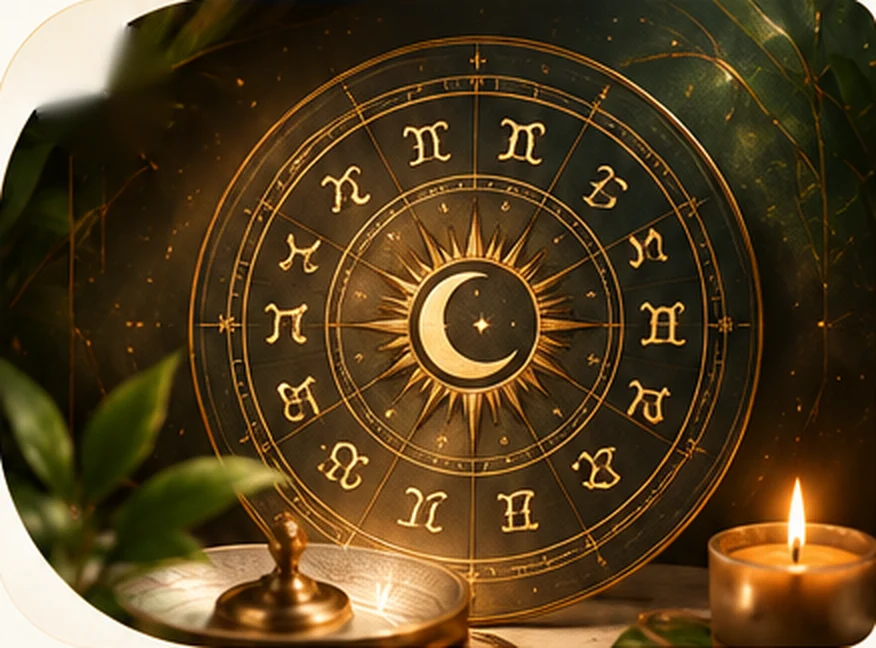
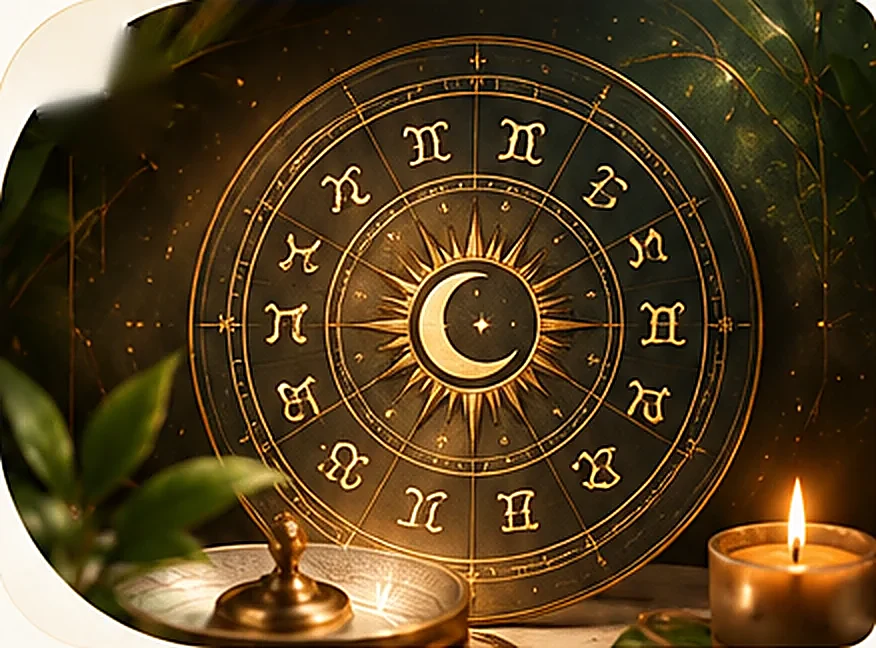
Site refine: sharpened upscaled photos, reading room and shop in green and gold, about client-stories leaf behind the text

diff --git a/src/app/globals.css b/src/app/globals.css
@@ -22734,3 +22734,338 @@ main h1, main h2, main h3, main p, main li { overflow-wrap: break-word; }
 .bt-card-b .bt-card-more { margin-top: 0; }
 .bt-card-b .bt-card-actions.bt-card-foot { gap: 12px; }
 @media (min-width: 901px) { .svd-review #pages h2 { font-size: clamp(30px, 2.8vw, 46px); } }
+
+/* ===== Resources (reading room) green theme, generated ===== */
+.rr .button-secondary { color: #1D4F3A; }
+.rr .button-light { color: #1D4F3A !important; }
+.rr .button-light:hover { color: #1D4F3A !important; }
+.rr .dock-form { color: #1D4F3A !important; }
+.rr .reel-frame { background: #0B2A1F; }
+.rr .hero-figures .stats strong { color: #1D4F3A; }
+.rr .portrait-badge span { color: #1D4F3A; }
+.rr .meet-copy .text-link, .rr .meet .text-link { color: #1D4F3A; }
+.rr .chakra-control-btn, .rr .orbit-control { color: #1D4F3A; }
+.rr .intro-video-play-btn { background: linear-gradient(135deg, #1D4F3A 0%, #0B2A1F 100%); }
+.rr .intro-video-play-btn:hover { background: linear-gradient(135deg, #1D4F3A 0%, #123A2B 100%); }
+.rr .intro-main-quote { color: #1D4F3A; }
+.rr .intro-bio-text em { color: #1D4F3A; }
+.rr .stats-card-header { color: #1D4F3A; }
+.rr .stats-number { color: #1D4F3A; }
+.rr .intro-cta-button { background: linear-gradient(135deg, #1D4F3A 0%, #0B2A1F 100%); }
+.rr .intro-cta-button:hover { background: linear-gradient(135deg, #1D4F3A 0%, #123A2B 100%); }
+.rr .meet-badge { color: #1D4F3A; }
+.rr .service-card h3 { color: #1D4F3A; }
+.rr .service-card:hover h3 { color: #0B2A1F; }
+.rr .program-panel h1, .rr .program-panel h2 { color: #1D4F3A; }
+.rr .program-duration span { color: #1D4F3A; }
+.rr .program-details li { color: #1D4F3A; }
+.rr .program-domains span { color: #1D4F3A; }
+.rr .program-domains span:hover { color: #1D4F3A !important; }
+.rr .faq-intro h2 { color: #1D4F3A; }
+.rr .faq-intro .text-link { color: #1D4F3A; }
+.rr .program-btn-learn, .rr a.program-btn-learn { color: #1D4F3A !important; }
+.rr .areas-figure .chakra-center-you { fill: #1D4F3A; }
+.rr .areas-figure .chakra-labels text { fill: #1D4F3A; }
+.rr .desktop-nav a { color: #1D4F3A; }
+.rr .menu-toggle .dot { background: #1D4F3A !important; }
+.rr .drawer-close-btn { color: #1D4F3A !important; }
+.rr .drawer-links a { color: #1D4F3A !important; }
+.rr .drawer-contact-links a:hover { color: #1D4F3A !important; }
+.rr .trust-stats-header h2 { color: #1D4F3A; }
+.rr .trust-stat-number { color: #1D4F3A; }
+.rr .one-call-header h2 { color: #1D4F3A; }
+.rr .one-call-card-title { color: #1D4F3A; }
+.rr .desktop-nav a:hover, .rr .desktop-nav a[aria-current="page"] { color: #1D4F3A !important; }
+.rr .blogs-main-title { color: #1D4F3A; }
+.rr .blog-card-media { background: #0B2A1F; }
+.rr .blog-author-name { color: #1D4F3A; }
+.rr .blog-post-title { color: #1D4F3A; }
+.rr .blog-read-more-btn:hover { color: #1D4F3A; }
+.rr .feature-pill strong { color: #1D4F3A; }
+.rr .feature-pill em { color: #1D4F3A; }
+.rr .quote-band blockquote p { color: #1D4F3A !important; }
+.rr .experience-main-title { color: #1D4F3A; }
+.rr .experience-card:hover .experience-icon-box svg { stroke: #1D4F3A !important; }
+.rr .experience-card:hover .experience-number-badge { color: #1D4F3A; }
+.rr .experience-card-title { color: #1D4F3A; }
+.rr .experience-stats-strip { background: linear-gradient(135deg, #1D4F3A 0%, #0B2A1F 100%); }
+.rr .program-main h1, .rr .program-main h2 { color: #1D4F3A; }
+.rr .program-duration strong { color: #1D4F3A; }
+.rr .program-details li { color: #1D4F3A; }
+.rr .program-domains span { color: #1D4F3A; }
+.rr .program-intro-header h2 { color: #1D4F3A; }
+.rr .pillar-card h3 { color: #1D4F3A; }
+.rr .stays-extended-desc>p { color: #1D4F3A; }
+.rr .stays-key-takeaways strong { color: #1D4F3A; }
+.rr .service-quote-text, .rr .contact-quote-text { color: #1D4F3A; }
+.rr .service-quote-author strong, .rr .contact-quote-author strong { color: #1D4F3A; }
+.rr .program-explore-btn { background: linear-gradient(135deg, #1D4F3A 0%, #0B2A1F 100%); }
+.rr .service-card-title { color: #1D4F3A; }
+.rr .service-card-quote blockquote p { color: #1D4F3A; }
+.rr .service-enquiry-btn { background: linear-gradient(135deg, #1D4F3A 0%, #0B2A1F 100%); }
+.rr .hero-proof strong { color: #1D4F3A; }
+.rr .about-hero-copy h1 { color: #1D4F3A; }
+.rr .program-person strong, .rr .hero-human-cue strong { color: #1D4F3A; }
+.rr .home-return-prompt { box-shadow: 0 16px 60px rgb(29 79 58 / .12); }
+.rr .hx { background:
+    radial-gradient(60% 34% at 50% 52%, rgb(215 184 107 / 0.20), transparent 70%),
+    radial-gradient(120% 60% at 50% 0%, #1D4F3A 0%, transparent 60%),
+    linear-gradient(180deg, #1D4F3A 0%, #123A2B 100%); }
+.rr .hx-arch { box-shadow: 0 0 0 6px rgb(18 58 43 / 0.9), 0 0 0 7px rgb(215 184 107 / 0.45), 0 40px 70px -30px rgb(0 0 0 / 0.7); }
+@media (min-width: 901px) {
+.rr .hx { background:
+      radial-gradient(38% 58% at 76% 50%, rgb(215 184 107 / 0.20), transparent 70%),
+      radial-gradient(70% 90% at 0% 0%, #1D4F3A 0%, transparent 60%),
+      linear-gradient(180deg, #1D4F3A 0%, #123A2B 100%); }
+}
+.rr .mn-arch { box-shadow: 0 0 0 8px var(--brand-pearl), 0 0 0 9px rgb(184 138 69 / 0.4), 0 44px 80px -36px rgb(29 79 58 / 0.55); }
+.rr .mn-arch video { background: #123A2B; }
+.rr .mn-sound { box-shadow: 0 0 0 1px rgb(184 138 69 / 0.5), 0 12px 24px -12px rgb(18 58 43 / 0.6); }
+.rr .mn-play { background: linear-gradient(180deg, transparent 55%, rgb(18 58 43 / 0.35)); }
+.rr .mn-play-disc { box-shadow: 0 0 0 8px rgb(250 246 240 / 0.35), 0 18px 34px -12px rgb(18 58 43 / 0.6); }
+.rr .mn-play:hover .mn-play-disc, .rr .mn-play:focus-visible .mn-play-disc { box-shadow: 0 0 0 12px rgb(250 246 240 / 0.4), 0 18px 34px -12px rgb(18 58 43 / 0.6); }
+.rr .mn-link { box-shadow: inset 0 0 0 1px rgb(29 79 58 / 0.22); }
+.rr .cw-head .clientele-note { color: color-mix(in srgb, #1D4F3A 72%, #FAF6F0); }
+.rr .cw-person small { color: color-mix(in srgb, #1D4F3A 65%, #FAF6F0); }
+.rr .cw-watch { box-shadow: inset 0 0 0 1px color-mix(in srgb, #1D4F3A 22%, transparent); }
+.rr .cw-watch-time { color: color-mix(in srgb, #1D4F3A 60%, #FAF6F0); }
+.rr .cw-dot::before { background: color-mix(in srgb, #1D4F3A 22%, transparent); }
+.rr .sa-lead { color: color-mix(in srgb, #1D4F3A 72%, #FAF6F0); }
+.rr .sa-card { box-shadow: 0 0 0 1px color-mix(in srgb, #B88A45 22%, transparent), 0 18px 36px -28px rgb(29 79 58 / 0.45); }
+.rr .sa-body p { color: color-mix(in srgb, #1D4F3A 72%, #FAF6F0); }
+.rr .sa-card:hover { box-shadow: 0 0 0 1px color-mix(in srgb, #B88A45 45%, transparent), 0 26px 44px -28px rgb(29 79 58 / 0.5); }
+.rr .cw-card { background: #1D4F3A; box-shadow: 0 0 0 1px color-mix(in srgb, #B88A45 40%, transparent), 0 34px 60px -32px rgb(29 79 58 / 0.6); }
+.rr .cw-card-shade { background: linear-gradient(180deg, rgb(29 79 58 / 0.15) 0%, rgb(29 79 58 / 0) 35%, rgb(29 79 58 / 0.88) 100%); }
+.rr .cw-card-time { background: rgb(29 79 58 / 0.55); }
+.rr .cw-card-play { color: #1D4F3A; }
+.rr .sa-topics a { color: #1D4F3A; }
+.rr .sa-topics a:hover { color: color-mix(in srgb, #B88A45 70%, #1D4F3A); }
+.rr .ab-quote { box-shadow: 0 0 0 1px color-mix(in srgb, #B88A45 30%, transparent), 0 18px 34px -20px rgb(29 79 58 / 0.45); }
+.rr .ab-quote p { color: #1D4F3A; }
+.rr .ab-quote strong { color: #1D4F3A; }
+.rr .ab-quote small { color: color-mix(in srgb, #1D4F3A 65%, #FAF6F0); }
+.rr .ab-kicker { color: #1D4F3A; }
+.rr .ab h2 { color: #1D4F3A; }
+.rr .ab-lead { color: color-mix(in srgb, #1D4F3A 72%, #FAF6F0); }
+.rr .ab-icon { color: #1D4F3A; }
+.rr .ab-num { background: #1D4F3A; }
+.rr .ab-steps h3 { color: #1D4F3A; }
+.rr .ab-steps p { color: color-mix(in srgb, #1D4F3A 70%, #FAF6F0); }
+.rr .ab-cta { color: #1D4F3A; }
+.rr .ab-more summary { color: #1D4F3A; }
+.rr .ab-more dt { color: #1D4F3A; }
+.rr .ab-more dd { color: color-mix(in srgb, #1D4F3A 72%, #FAF6F0); }
+.rr .sf { background:
+    radial-gradient(60% 60% at 80% 0%, color-mix(in srgb, #D7B86B 14%, transparent), transparent 70%),
+    linear-gradient(180deg, #1D4F3A 0%, #0B2A1F 100%); }
+.rr .sf-arrow:hover { color: #1D4F3A; }
+.rr .sf-film { background: #0B2A1F; }
+.rr .sf-shade { background: linear-gradient(180deg, rgb(11 42 31 / 0.25) 0%, rgb(11 42 31 / 0) 30%, rgb(11 42 31 / 0.1) 55%, rgb(11 42 31 / 0.92) 100%); }
+.rr .sf-time { background: rgb(11 42 31 / 0.55); }
+.rr .sf-play { color: #1D4F3A; }
+.rr .sf-more span { color: #1D4F3A; }
+.rr .sf-enquire { color: #1D4F3A; }
+.rr .sf-viewer { background: #0B2A1F; }
+.rr .sf-viewer-close { color: #1D4F3A; }
+.rr .sf-viewer { background: #0B2A1F; }
+.rr .bk-back { box-shadow: 0 30px 60px -20px rgb(29 79 58 / 0.45); }
+.rr .bk-page { color: #1D4F3A; }
+.rr .bk-shadow { background: radial-gradient(closest-side, rgb(29 79 58 / 0.32), transparent); }
+.rr .bk-kicker { color: #1D4F3A; }
+.rr .bk h2 { color: #1D4F3A; }
+.rr .bk-lead { color: color-mix(in srgb, #1D4F3A 75%, #FAF6F0); }
+.rr .bk-lead em { color: #1D4F3A; }
+.rr .bk-facts strong { color: #1D4F3A; }
+.rr .bk-facts span { color: color-mix(in srgb, #1D4F3A 65%, #FAF6F0); }
+.rr .bk-author span { color: #1D4F3A; }
+.rr .bk-cta { color: #1D4F3A; }
+.rr .bk-cta-arrow { background: #1D4F3A; }
+.rr .bk-face { color: #1D4F3A; }
+.rr .bk-face p { color: color-mix(in srgb, #1D4F3A 80%, #FAF6F0); }
+.rr .bk-quote p { color: #1D4F3A; }
+.rr .lx-kicker { color: #1D4F3A; }
+.rr .jr h2, .rr .fq h2, .rr .ig h2 { color: #1D4F3A; }
+.rr .lx-lead { color: color-mix(in srgb, #1D4F3A 72%, #FAF6F0); }
+.rr .loop-arrow { color: #1D4F3A; }
+.rr .loop-arrow:hover { background: #1D4F3A; }
+.rr .jr-frame { box-shadow: 0 26px 44px -30px rgb(29 79 58 / 0.55); }
+.rr .jr-card:hover .jr-frame { box-shadow: 0 34px 54px -30px rgb(29 79 58 / 0.6); }
+.rr .jr-card figcaption { color: #1D4F3A; }
+.rr .pg-card { background:
+    radial-gradient(50% 70% at 85% 30%, color-mix(in srgb, #D7B86B 20%, transparent), transparent 70%),
+    linear-gradient(140deg, #1D4F3A 0%, #1D4F3A 45%, #0B2A1F 100%); box-shadow: 0 40px 70px -40px rgb(29 79 58 / 0.7); }
+.rr .pg-cta { color: #1D4F3A; }
+.rr .pg-cta-arrow { background: #1D4F3A; }
+.rr .pg-medal { color: #1D4F3A; }
+.rr .fq-ask p { color: #1D4F3A; }
+.rr .fq-ask-btn { background: #1D4F3A; }
+.rr .fq-item[open] { box-shadow: 0 0 0 1px #B88A45, 0 18px 34px -24px rgb(29 79 58 / 0.4); }
+.rr .fq-q { color: #1D4F3A; }
+.rr .fq-icon::before, .rr .fq-icon::after { background: #1D4F3A; }
+.rr .fq-item[open] .fq-icon { background: #1D4F3A; }
+.rr .fq-item > p { color: color-mix(in srgb, #1D4F3A 78%, #FAF6F0); }
+.rr .ig-profile { color: #1D4F3A; }
+.rr .ig-card { color: #1D4F3A; }
+.rr .ig-image { box-shadow: 0 0 0 1px color-mix(in srgb, #B88A45 25%, transparent), 0 26px 44px -30px rgb(29 79 58 / 0.55); }
+.rr .ig-views { background: rgb(11 42 31 / 0.62); }
+.rr .ig-open { color: #1D4F3A; }
+.rr .ig-card:hover .ig-image { box-shadow: 0 0 0 1px #B88A45, 0 34px 54px -30px rgb(29 79 58 / 0.6); }
+.rr .ig-note { color: color-mix(in srgb, #1D4F3A 55%, #FAF6F0); }
+.rr footer.site-footer.ft { background:
+    radial-gradient(50% 60% at 90% 0%, color-mix(in srgb, #D7B86B 14%, transparent), transparent 70%),
+    linear-gradient(180deg, #1D4F3A 0%, #0B2A1F 100%) !important; }
+.rr .cn-kicker-dark { color: #1D4F3A; }
+.rr .cn-arrow { background: #1D4F3A; }
+.rr .cn-cta { color: #1D4F3A; }
+.rr .cn-ghost-dark { color: #1D4F3A; box-shadow: inset 0 0 0 1px color-mix(in srgb, #1D4F3A 25%, transparent); }
+.rr .cn-text { color: #1D4F3A; }
+.rr .cn-hero { background:
+    radial-gradient(40% 60% at 78% 50%, rgb(215 184 107 / 0.18), transparent 70%),
+    radial-gradient(70% 90% at 0% 0%, #1D4F3A 0%, transparent 60%),
+    linear-gradient(180deg, #1D4F3A 0%, #0B2A1F 100%); }
+.rr .cn-arch { box-shadow: 0 0 0 8px rgb(18 58 43 / 0.85), 0 0 0 9px rgb(215 184 107 / 0.4), 0 44px 70px -30px rgb(0 0 0 / 0.7); }
+.rr .cn-badge span { color: #1D4F3A; }
+.rr .cn-chips a { color: #1D4F3A; }
+.rr .cn-chips a:hover { background: #1D4F3A; }
+.rr .cn-head h2, .rr .cn-fees h2, .rr .cn-support h2 { color: #1D4F3A; }
+.rr .cn-head p { color: color-mix(in srgb, #1D4F3A 72%, #FAF6F0); }
+.rr .cn-area { box-shadow: 0 0 0 1px color-mix(in srgb, #B88A45 22%, transparent), 0 22px 40px -32px rgb(29 79 58 / 0.5); }
+.rr .cn-area-icon { color: #1D4F3A; }
+.rr .cn-area h3 { color: #1D4F3A; }
+.rr .cn-area p { color: color-mix(in srgb, #1D4F3A 72%, #FAF6F0); }
+.rr .cn-area-link { color: #1D4F3A; }
+.rr .cn-area:hover { box-shadow: 0 0 0 1px #B88A45, 0 30px 50px -32px rgb(29 79 58 / 0.55); }
+.rr .cn-disclaimer { color: color-mix(in srgb, #1D4F3A 55%, #FAF6F0); }
+.rr .cn-fees-card { box-shadow: 0 0 0 1px color-mix(in srgb, #B88A45 25%, transparent), 0 30px 54px -38px rgb(29 79 58 / 0.5); }
+.rr .cn-fees-copy p:last-child { color: color-mix(in srgb, #1D4F3A 72%, #FAF6F0); }
+.rr .cn-steps.is-in .cn-step-num { background: #1D4F3A; }
+.rr .cn-steps h3 { color: #1D4F3A; }
+.rr .cn-steps p { color: color-mix(in srgb, #1D4F3A 72%, #FAF6F0); }
+.rr .cn-support-card { background:
+    radial-gradient(50% 70% at 0% 0%, #1D4F3A, transparent 70%),
+    linear-gradient(140deg, #1D4F3A, #0B2A1F); box-shadow: 0 40px 70px -40px rgb(29 79 58 / 0.7); }
+.rr .cn-support-visual::after { background: linear-gradient(180deg, #123A2B 0%, rgb(18 58 43 / 0) 30%); }
+@media (min-width: 1024px) {
+.rr .cn-support-visual::after { background: linear-gradient(90deg, #123A2B 0%, rgb(18 58 43 / 0) 35%); }
+}
+.rr .ct-card { box-shadow: 0 0 0 1px color-mix(in srgb, #B88A45 22%, transparent), 0 24px 44px -34px rgb(29 79 58 / 0.5); }
+.rr .ct-card:hover { box-shadow: 0 0 0 1px #B88A45, 0 32px 54px -34px rgb(29 79 58 / 0.55); }
+.rr .ct-card-main { background: radial-gradient(60% 80% at 100% 0%, color-mix(in srgb, #D7B86B 22%, transparent), transparent 70%), linear-gradient(140deg, #1D4F3A, #1D4F3A 55%, #0B2A1F); box-shadow: 0 30px 54px -30px rgb(29 79 58 / 0.7); }
+.rr .ct-icon { color: #1D4F3A; }
+.rr .ct-icon-wa { color: #1D4F3A; }
+.rr .ct-card h3 { color: #1D4F3A; }
+.rr .ct-card p { color: color-mix(in srgb, #1D4F3A 72%, #FAF6F0); }
+.rr .ct-link, .rr .ct-link-wrap .text-link { color: #1D4F3A; }
+.rr .ct-quote { box-shadow: 0 0 0 1px color-mix(in srgb, #B88A45 22%, transparent), 0 30px 54px -38px rgb(29 79 58 / 0.5); }
+.rr .ct-quote-photo span { background: rgb(29 79 58 / 0.75); }
+.rr .ct-quote blockquote p { color: #1D4F3A; }
+.rr .ct-quote figcaption strong { color: #1D4F3A; }
+.rr .ct-quote figcaption span { color: color-mix(in srgb, #1D4F3A 60%, #FAF6F0); }
+.rr .ab2-film-frame { box-shadow: 0 0 0 8px rgb(18 58 43 / 0.85), 0 0 0 9px rgb(215 184 107 / 0.4), 0 44px 70px -30px rgb(0 0 0 / 0.7); }
+.rr .ab2-film video { background: #0B2A1F; }
+.rr .ab2-stats li { box-shadow: 0 0 0 1px color-mix(in srgb, #B88A45 22%, transparent), 0 24px 44px -34px rgb(29 79 58 / 0.5); }
+.rr .ab2-stats h3 { color: #1D4F3A; }
+.rr .ab2-stats p { color: color-mix(in srgb, #1D4F3A 72%, #FAF6F0); }
+.rr .ab2-timeline h3 { color: #1D4F3A; }
+.rr .ab2-timeline p { color: color-mix(in srgb, #1D4F3A 72%, #FAF6F0); }
+.rr .ab2-beliefs { background: radial-gradient(50% 70% at 85% 0%, color-mix(in srgb, #D7B86B 16%, transparent), transparent 70%), linear-gradient(180deg, #1D4F3A, #0B2A1F); }
+.rr .ab2-book-cover img { box-shadow: -6px 0 0 #E9DCC2, 0 40px 60px -26px rgb(29 79 58 / 0.55); }
+.rr .ab2-book h2 { color: #1D4F3A; }
+.rr .ab2-book-lead { color: color-mix(in srgb, #1D4F3A 75%, #FAF6F0); }
+.rr .ab2-book-quote p { color: #1D4F3A; }
+.rr-hero { background:
+    radial-gradient(40% 80% at 85% 30%, rgb(215 184 107 / 0.18), transparent 70%),
+    radial-gradient(70% 90% at 0% 0%, #1D4F3A 0%, transparent 60%),
+    linear-gradient(180deg, #1D4F3A 0%, #0B2A1F 100%); }
+.rr-topics a:hover { color: #1D4F3A; }
+.rr-head h2 { color: #1D4F3A; }
+.rr-chip { color: #1D4F3A; }
+.rr-featured { box-shadow: 0 0 0 1px color-mix(in srgb, #B88A45 22%, transparent), 0 36px 64px -42px rgb(29 79 58 / 0.55); }
+.rr-featured h2 { color: #1D4F3A; }
+.rr-featured-body > p:not(.rr-meta) { color: color-mix(in srgb, #1D4F3A 72%, #FAF6F0); }
+.rr-card { box-shadow: 0 0 0 1px color-mix(in srgb, #B88A45 20%, transparent), 0 26px 48px -36px rgb(29 79 58 / 0.5); }
+.rr-card h3 { color: #1D4F3A; }
+.rr-card-body > p:not(.rr-meta) { color: color-mix(in srgb, #1D4F3A 72%, #FAF6F0); }
+.rr-read { color: #1D4F3A; }
+.rr-card:hover { box-shadow: 0 0 0 1px #B88A45, 0 34px 56px -34px rgb(29 79 58 / 0.55); }
+.rr-note { color: color-mix(in srgb, #1D4F3A 55%, #FAF6F0); }
+.rr-deeper p { color: #1D4F3A; }
+.rr-choice { box-shadow: 0 0 0 1px color-mix(in srgb, #B88A45 22%, transparent), 0 30px 54px -38px rgb(29 79 58 / 0.5); }
+.rr-choice h2 { color: #1D4F3A; }
+.rr-choice-body > p:not(.rr-meta) { color: color-mix(in srgb, #1D4F3A 72%, #FAF6F0); }
+.rr-choice:hover { box-shadow: 0 0 0 1px #B88A45, 0 38px 60px -36px rgb(29 79 58 / 0.55); }
+.rr-article-figure picture { box-shadow: 0 30px 54px -36px rgb(29 79 58 / 0.55); }
+.rr-article-figure figcaption { color: color-mix(in srgb, #1D4F3A 55%, #FAF6F0); }
+.rr-takeaway p { color: #1D4F3A; }
+.rr-article-body h2 { color: #1D4F3A; }
+.rr-article-body p { color: color-mix(in srgb, #1D4F3A 82%, #FAF6F0); }
+.rr-article-body li { color: #1D4F3A; }
+.rr-sources a { color: #1D4F3A; }
+.rr-sources li span { color: color-mix(in srgb, #1D4F3A 60%, #FAF6F0); }
+.rr-sources > p { color: color-mix(in srgb, #1D4F3A 60%, #FAF6F0) !important; }
+.rr-slides::after { background:
+    linear-gradient(180deg, rgb(11 42 31 / 0.35) 0%, rgb(11 42 31 / 0) 30%, rgb(11 42 31 / 0.55) 100%),
+    linear-gradient(90deg, rgb(18 58 43 / 0.96) 0%, rgb(29 79 58 / 0.86) 42%, rgb(29 79 58 / 0.35) 75%, rgb(29 79 58 / 0.15) 100%); }
+@media (max-width: 680px) {
+.rr-slides::after { background: linear-gradient(180deg, rgb(18 58 43 / 0.82) 0%, rgb(29 79 58 / 0.9) 60%, rgb(11 42 31 / 0.95) 100%); }
+}
+.rr .hh-areas span { color: #1D4F3A; }
+.rr .hh-fit li:hover { box-shadow: 0 0 0 1px #B88A45, 0 20px 36px -26px rgb(29 79 58 / 0.45); }
+.rr .hh-fit p { color: #1D4F3A; }
+.rr .hh-card { box-shadow: 0 0 0 1px color-mix(in srgb, #B88A45 22%, transparent), 0 26px 48px -36px rgb(29 79 58 / 0.5); }
+.rr .hh-card.is-featured { background: radial-gradient(60% 80% at 100% 0%, color-mix(in srgb, #D7B86B 20%, transparent), transparent 70%), linear-gradient(140deg, #1D4F3A, #1D4F3A 55%, #0B2A1F); box-shadow: 0 34px 60px -34px rgb(29 79 58 / 0.7); }
+.rr .hh-badge { color: #1D4F3A; }
+.rr .hh-card h3 { color: #1D4F3A; }
+.rr .hh-card > p { color: color-mix(in srgb, #1D4F3A 72%, #FAF6F0); }
+.rr .hh-card li { color: #1D4F3A; }
+.rr .al-enquire { background: radial-gradient(50% 70% at 85% 10%, color-mix(in srgb, #D7B86B 16%, transparent), transparent 70%), linear-gradient(180deg, #1D4F3A, #0B2A1F); }
+.rr .al-next li::before { color: #1D4F3A; }
+.rr .al-form { color: #1D4F3A; }
+.rr .al-form label { color: #1D4F3A; }
+.rr .al-form label span { color: color-mix(in srgb, #1D4F3A 55%, #FAF6F0); }
+.rr .al-form :is(input, select) { color: #1D4F3A; }
+.rr .al-form .button { color: #1D4F3A !important; }
+.rr .al-form .form-note { color: color-mix(in srgb, #1D4F3A 62%, #FAF6F0); }
+.rr .al-footer { background: #0B2A1F; }
+.rr .al .ads-sticky { color: #1D4F3A !important; }
+.rr .al .cn-cta.button { color: #1D4F3A !important; }
+.rr .bk-face .bk-body strong { color: #1D4F3A; }
+.rr .bk-drop { color: #1D4F3A !important; }
+.rr .bk-days { color: #1D4F3A; }
+.rr .bk-bookplate > span:not(.bk-rule) { color: #1D4F3A; }
+.rr .cf-copy h2 { color: #1D4F3A; }
+.rr .cf-lead { color: color-mix(in srgb, #1D4F3A 72%, #FAF6F0); }
+.rr .cf-points li { color: #1D4F3A; }
+.rr .cf-card { box-shadow: 0 0 0 1px color-mix(in srgb, #B88A45 22%, transparent), 0 30px 54px -38px rgb(29 79 58 / 0.5); }
+.rr .cf-field label { color: #1D4F3A; }
+.rr .cf-opt { color: color-mix(in srgb, #1D4F3A 55%, #FAF6F0); }
+.rr .cf-field input, .rr .cf-field select, .rr .cf-field textarea { color: #0B2A1F; }
+.rr .cf-field input::placeholder, .rr .cf-field textarea::placeholder { color: color-mix(in srgb, #1D4F3A 40%, #FAF6F0); }
+.rr .cf-submit { color: #1D4F3A; }
+.rr .cf-note { color: color-mix(in srgb, #1D4F3A 60%, #FAF6F0); }
+.rr .cf-note-warn { color: #1D4F3A; }
+.rr .cf-note-warn a { color: #1D4F3A; }
+.rr .cf-done-mark { color: #1D4F3A; }
+.rr .cf-done h3 { color: #1D4F3A; }
+.rr .cf-done p { color: color-mix(in srgb, #1D4F3A 72%, #FAF6F0); }
+.rr .cf-again { color: #1D4F3A; }
+.rr .practice-site main section.fq h2 { color: #123A2B; }
+.rr section.fq .fq-ask strong { color: #123A2B; }
+.rr section.fq .fq-ask-btn { background: linear-gradient(180deg, #1D4F3A, #123A2B); box-shadow: 0 16px 28px -18px rgb(18 58 43 / 0.9); }
+.rr section.fq .fq-ask-btn span { color: #123A2B; }
+.rr section.fq .fq-q { color: #123A2B; }
+.rr .practice-site main .cs h2 { color: #123A2B; }
+.rr .cs-cta { background: linear-gradient(180deg, #1D4F3A, #123A2B); box-shadow: 0 0 0 1.5px rgb(201 162 86 / 0.55), 0 18px 30px -18px rgb(18 58 43 / 0.9); }
+.rr .cs-go { color: #123A2B; }
+.rr .cs-ghost { box-shadow: inset 0 0 0 1.3px #123A2B; color: #123A2B; }
+.rr .cs-icon { color: #123A2B; }
+.rr .cs-points strong { color: #123A2B; }
+.rr .rr-hero { background: radial-gradient(60% 80% at 0% 0%, #1F4A36, transparent 60%), linear-gradient(180deg, #123A2B, #0B2A1F); }
+.rr .rr-hero::after, .rr .rr-hero .rr-shade { background: linear-gradient(90deg, rgb(11 42 31 / 0.92) 0%, rgb(11 42 31 / 0.7) 45%, rgb(11 42 31 / 0.25) 100%) !important; }
+.practice-site main .rr h1, .practice-site main .rr h2 { font-family: var(--font-display), var(--serif); }
+@media (max-width: 900px) {
+  .au .cw-head { position: relative; z-index: 1; }
+  .au .cw-head .clientele-note { padding-inline: 14px; }
+  .au .cw::after { top: 240px; opacity: 0.45; }
+  .au .cw::before { opacity: 0.55; }
+}

diff --git a/src/components/shop/store.module.css b/src/components/shop/store.module.css
@@ -76,7 +76,11 @@
 /* Coming soon: mobile first, centred, one action. */
 .soon { display: flex; flex-direction: column; align-items: center; justify-content: center; text-align: center; min-height: 70vh; width: min(100% - 40px, 760px); margin: auto; padding-block: 48px 72px; }
 .soon :global(.crumbs) { justify-content: center; margin-bottom: 36px; }
-.soon h1 { font-family: var(--serif); font-size: clamp(44px, 12vw, 76px); line-height: 1.05; letter-spacing: -1.5px; margin: 14px 0 0; }
+.soon h1 { font-family: var(--font-display), var(--serif); font-weight: 600; font-size: clamp(44px, 12vw, 76px); line-height: 1.05; letter-spacing: -1.5px; margin: 14px 0 0; color: #123A2B; }
+.soon h1 :global(em) { color: #B58A44; }
+.soon :global(.kicker) { color: #8A6A32; letter-spacing: 0.24em; }
+.soon :global(.crumbs), .soon :global(.crumbs a), .soon :global(.text-link) { color: #123A2B; }
+.soonActions :global(.button) { border-radius: 999px; background: linear-gradient(180deg, #1D4F3A, #123A2B); color: #FFFFFF; box-shadow: 0 0 0 1.5px rgb(201 162 86 / 0.6); }
 .soonRule { display: block; width: 56px; height: 1px; margin: 28px auto; background: var(--brand-brass); }
 .soonLead { max-width: 34ch; margin: 0 auto 34px; line-height: 1.65; color: var(--muted); }
 .soonActions { display: flex; flex-direction: column; align-items: center; gap: 20px; width: 100%; }
